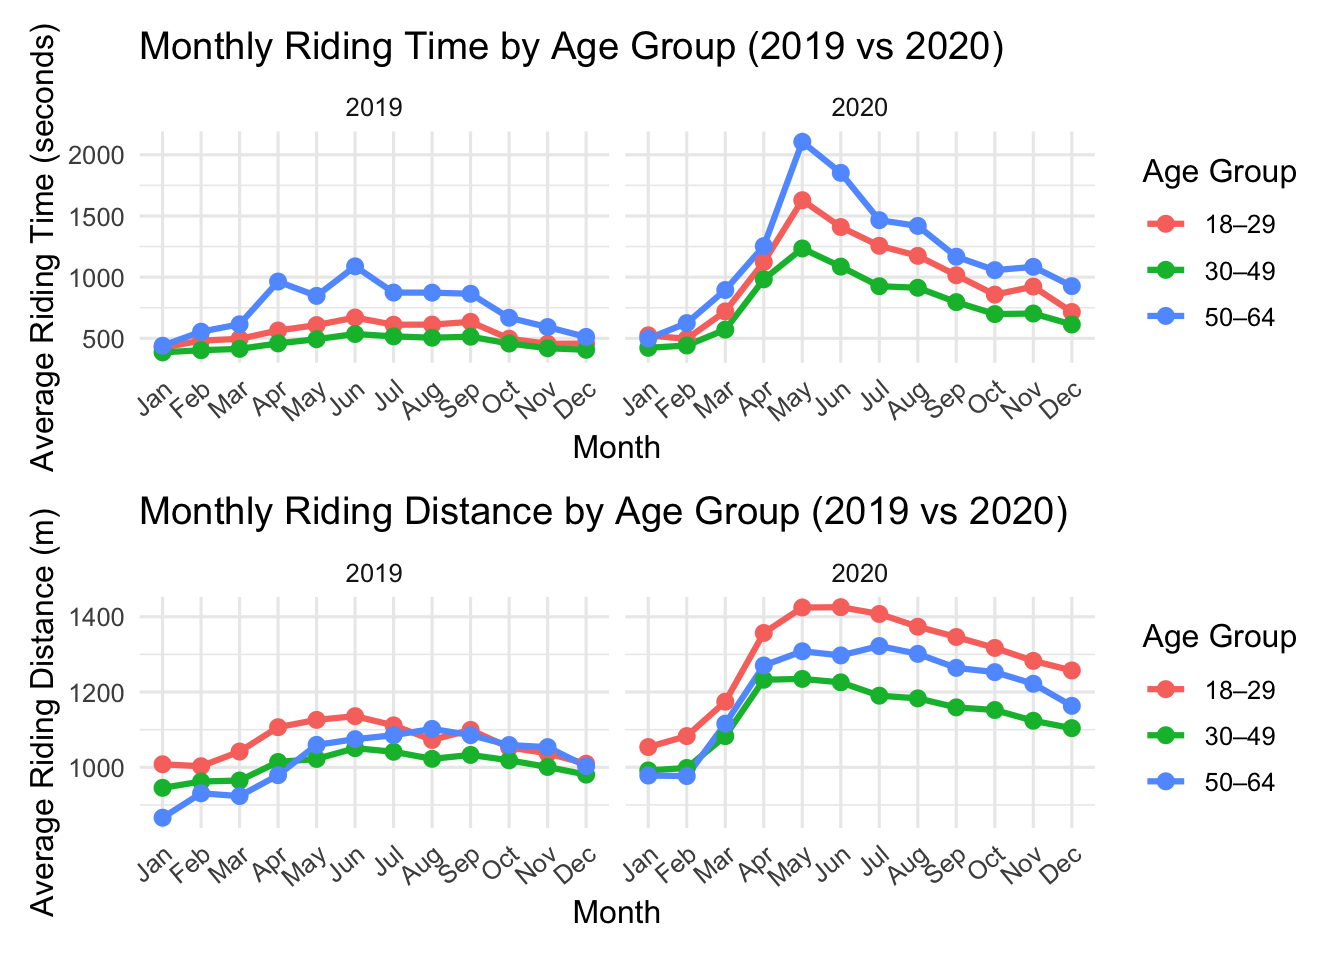
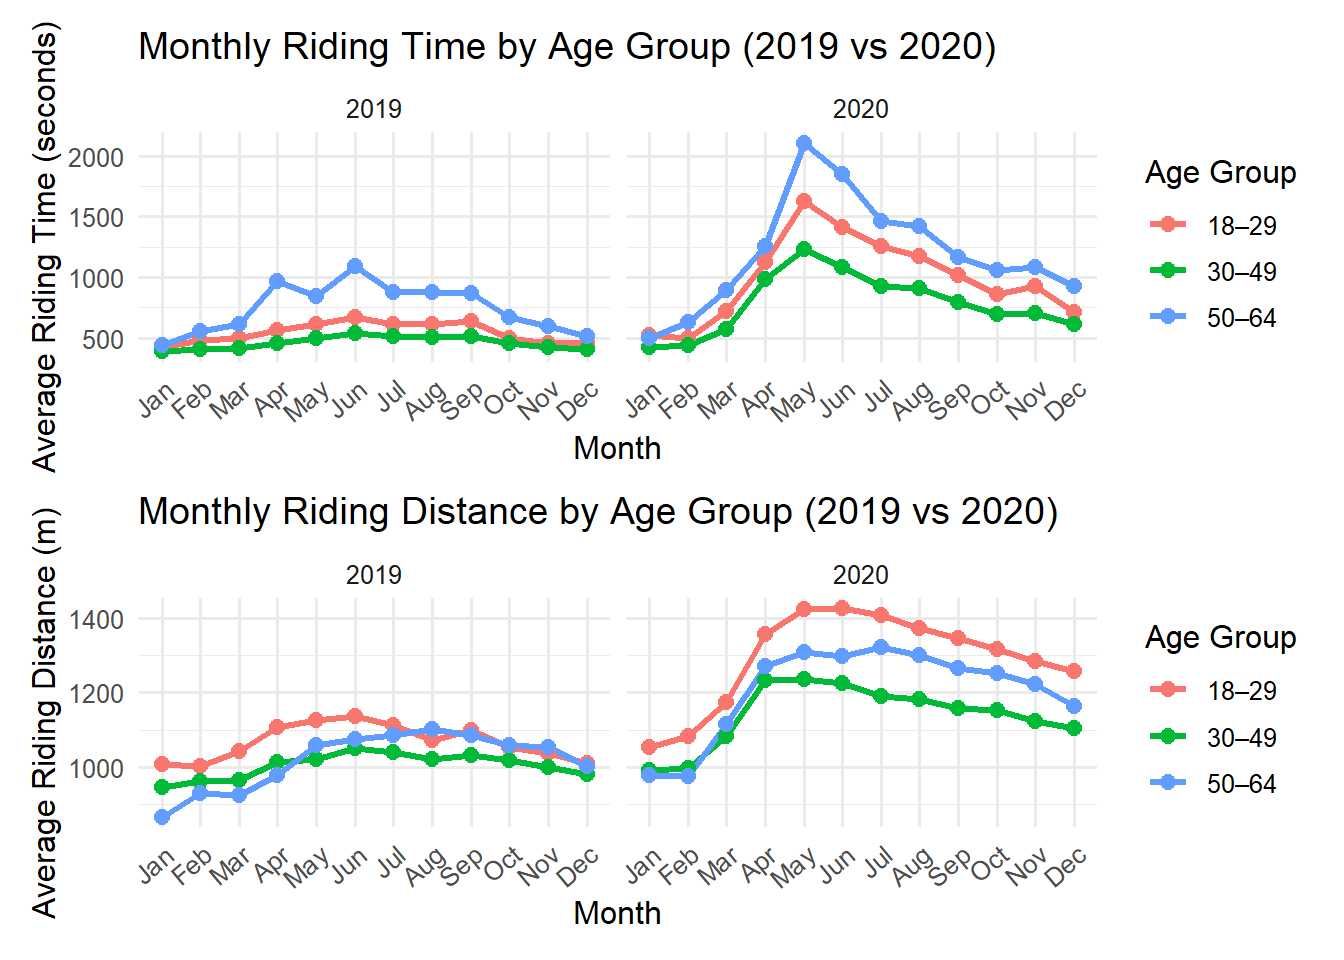
final draft version 7.0

diff --git a/riding-bike.html b/riding-bike.html
@@ -391,6 +391,19 @@ h1, h2, h3, h4, h5, h6 {
   font-weight: 700;
   line-height: 1.25;
 }
+.navbar,
+.navbar .navbar-brand,
+.navbar-nav > li > a {
+  font-family: "Helvetica Neue", "Helvetica", "Arial", sans-serif;
+  font-weight: 600;
+}
+.tocify,
+.tocify-header,
+.tocify-item {
+  font-family: "Helvetica Neue", "Helvetica", "Arial", sans-serif;
+  font-size: 14px;
+  line-height: 1.3;
+}
 </style>
 <p><br></p>
 <p><img src="images/riding%20age.jpg" style="width:75.0%" /></p>
@@ -548,13 +561,9 @@ bikedistance_plot1</code></pre>
 
 bikedistance_plot2</code></pre>
 <p><img src="riding-bike_files/figure-html/unnamed-chunk-4-1.png" width="672" /></p>
-<<<<<<< HEAD
-<pre class="r"><code>(biketime_plot2 / bikedistance_plot2) + plot_layout(heights = c(1, 1)) </code></pre>
-<p><img src="riding-bike_files/figure-html/unnamed-chunk-4-2.png" width="672" /></p>
-<pre class="r"><code>ggsave(&quot;bike_time_distance_combined.png&quot;, width = 8, height = 10, dpi = 300)</code></pre>
-<p><br></p>
-=======
->>>>>>> 00581a7dced7c61fb7f6a1f7bc5cce2016ccd81e
+<p>&lt;&lt;&lt;&lt;&lt;&lt;&lt; HEAD <br> =======
+&gt;&gt;&gt;&gt;&gt;&gt;&gt;
+00581a7dced7c61fb7f6a1f7bc5cce2016ccd81e</p>
 <p>Riding distance in 2020 is consistently higher than in 2019 across
 all age groups and nearly all months. The most pronounced increases
 occur during April–August, when many residents replaced subway and bus

diff --git a/Map.html b/Map.html
@@ -1916,7 +1916,7 @@ window.FlexDashboardComponents.push({
 <div class="knitr-options" data-fig-width="576" data-fig-height="460">
 
 </div>
-<div class="leaflet html-widget html-widget-output shiny-report-size html-fill-item" id="outbc28334e200d6b3b" style="width:100%;height:400px;"></div>
+<div class="leaflet html-widget html-widget-output shiny-report-size html-fill-item" id="out8ff4a6003072c753" style="width:100%;height:400px;"></div>
 </div>
 </div>
 <div id="section-section-2" class="section level2" data-width="500">
@@ -1926,7 +1926,7 @@ window.FlexDashboardComponents.push({
 <div class="knitr-options" data-fig-width="576" data-fig-height="460">
 
 </div>
-<div class="leaflet html-widget html-widget-output shiny-report-size html-fill-item" id="outcfa1e73369ebe041" style="width:100%;height:400px;"></div>
+<div class="leaflet html-widget html-widget-output shiny-report-size html-fill-item" id="oute0e212f000006e62" style="width:100%;height:400px;"></div>
 <hr />
 </div>
 </div>

diff --git a/Conclusion.html b/Conclusion.html
@@ -390,6 +390,19 @@ h1, h2, h3, h4, h5, h6 {
   font-weight: 700;
   line-height: 1.25;
 }
+.navbar,
+.navbar .navbar-brand,
+.navbar-nav > li > a {
+  font-family: "Helvetica Neue", "Helvetica", "Arial", sans-serif;
+  font-weight: 600;
+}
+.tocify,
+.tocify-header,
+.tocify-item {
+  font-family: "Helvetica Neue", "Helvetica", "Arial", sans-serif;
+  font-size: 14px;
+  line-height: 1.3;
+}
 </style>
 <p>Based on our analysis, we believe that COVID-19 substantially changed
 people’s commuting patterns in Jersey City and pushed many residents

diff --git a/index.html b/index.html
@@ -379,6 +379,19 @@ h1, h2, h3, h4, h5, h6 {
   font-weight: 700;
   line-height: 1.25;
 }
+.navbar,
+.navbar .navbar-brand,
+.navbar-nav > li > a {
+  font-family: "Helvetica Neue", "Helvetica", "Arial", sans-serif;
+  font-weight: 600;
+}
+.tocify,
+.tocify-header,
+.tocify-item {
+  font-family: "Helvetica Neue", "Helvetica", "Arial", sans-serif;
+  font-size: 14px;
+  line-height: 1.3;
+}
 </style>
 <p><br></p>
 <p><img src="images/Citibike-COVID.jpg" style="width:75.0%" /></p>

diff --git a/authors.html b/authors.html
@@ -378,6 +378,19 @@ h1, h2, h3, h4, h5, h6 {
   font-weight: 700;
   line-height: 1.25;
 }
+.navbar,
+.navbar .navbar-brand,
+.navbar-nav > li > a {
+  font-family: "Helvetica Neue", "Helvetica", "Arial", sans-serif;
+  font-weight: 600;
+}
+.tocify,
+.tocify-header,
+.tocify-item {
+  font-family: "Helvetica Neue", "Helvetica", "Arial", sans-serif;
+  font-size: 14px;
+  line-height: 1.3;
+}
 </style>
 <div id="family-guys" class="section level2">
 <h2>Family guys</h2>

diff --git a/our-dataset.html b/our-dataset.html
@@ -390,6 +390,19 @@ h1, h2, h3, h4, h5, h6 {
   font-weight: 700;
   line-height: 1.25;
 }
+.navbar,
+.navbar .navbar-brand,
+.navbar-nav > li > a {
+  font-family: "Helvetica Neue", "Helvetica", "Arial", sans-serif;
+  font-weight: 600;
+}
+.tocify,
+.tocify-header,
+.tocify-item {
+  font-family: "Helvetica Neue", "Helvetica", "Arial", sans-serif;
+  font-size: 14px;
+  line-height: 1.3;
+}
 </style>
 <p><br></p>
 <p><img src="images/data%20cleaning.gif" /></p>

diff --git a/plotly.html b/plotly.html
@@ -1923,7 +1923,7 @@ window.FlexDashboardComponents.push({
 <div class="knitr-options" data-fig-width="576" data-fig-height="460">
 
 </div>
-<div class="leaflet html-widget html-widget-output shiny-report-size html-fill-item" id="outa28c080dd4f3eb5b" style="width:100%;height:400px;"></div>
+<div class="leaflet html-widget html-widget-output shiny-report-size html-fill-item" id="out2b42d63cfb22f5d6" style="width:100%;height:400px;"></div>
 </div>
 </div>
 
